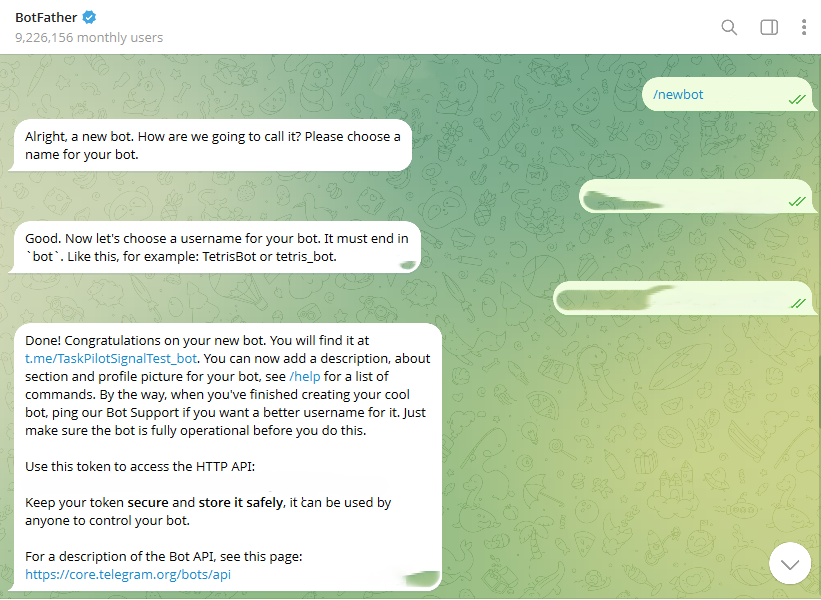
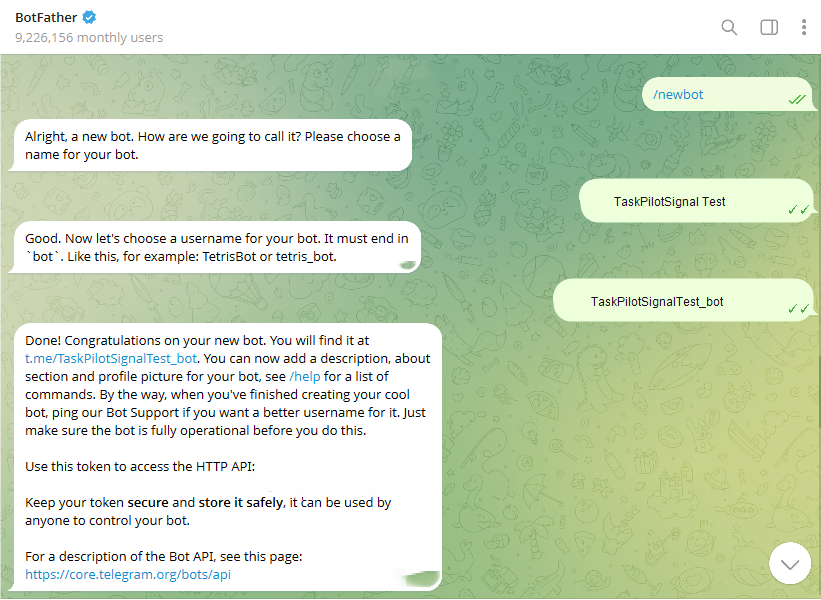
Improve Telegram bot setup guide

Changed region(s): [[0.6699, 0.45, 1.0, 0.54], [0.7004, 0.3, 1.0, 0.39]]

diff --git a/index.html b/index.html
@@ -304,31 +304,32 @@
             <h3>3. Get a Telegram Bot Token</h3>
             <div class="guide-shot-row">
               <figure class="guide-shot-tile">
-                <a class="guide-shot" href="assets/guide/telegram-bot-token.png">
-                  <img src="assets/guide/telegram-bot-token.png" alt="Telegram bot token card with a verified demo bot">
-                </a>
-                <figcaption>Add the token after sending /start to the bot once.</figcaption>
-              </figure>
-              <figure class="guide-shot-tile">
                 <a class="guide-shot" href="assets/guide/telegram-bot-create-1.png">
-                  <img src="assets/guide/telegram-bot-create-1.png" alt="Telegram bot auto-configuration chat asking for missing setup details">
+                  <img src="assets/guide/telegram-bot-create-1.png" alt="BotFather chat showing /newbot, a display name, and a username ending in bot">
                 </a>
-                <figcaption>The bot asks only for the setup details it still needs.</figcaption>
+                <figcaption>Steps 2-3: send /newbot, then enter the bot name and username.</figcaption>
               </figure>
               <figure class="guide-shot-tile">
                 <a class="guide-shot" href="assets/guide/telegram-bot-create-2.png">
-                  <img src="assets/guide/telegram-bot-create-2.png" alt="Telegram bot auto-configuration chat confirming AI model and schedule">
+                  <img src="assets/guide/telegram-bot-create-2.png" alt="Telegram chat with the new bot after sending start">
                 </a>
-                <figcaption>You can answer naturally and confirm the AI model in chat.</figcaption>
+                <figcaption>Step 4: open your new bot and send /start once.</figcaption>
+              </figure>
+              <figure class="guide-shot-tile">
+                <a class="guide-shot" href="assets/guide/telegram-bot-token.png">
+                  <img src="assets/guide/telegram-bot-token.png" alt="Telegram bot token card with a verified demo bot">
+                </a>
+                <figcaption>Step 5: add and verify the token in Settings.</figcaption>
               </figure>
             </div>
             <p class="guide-hint">Click any screenshot to open it full size.</p>
             <ol>
-              <li>Open Telegram and search for <strong>@BotFather</strong>. Use the official BotFather account.</li>
-              <li>Send <code>/newbot</code>, enter a display name, then enter a username that ends with <code>bot</code>.</li>
+              <li>Open <strong>Settings > Telegram Bot Tokens</strong> in TaskPilotSignal when you are ready to add the token. Token creation is done in Telegram, then saved here.</li>
+              <li>Open Telegram and search for <strong>@BotFather</strong>. Use the official BotFather account, then send <code>/newbot</code>.</li>
+              <li>Enter a display name such as <code>TaskPilotSignal Test</code>, then enter a username that ends with <code>bot</code>, such as <code>TaskPilotSignalTest_bot</code>.</li>
               <li>Copy the token BotFather gives you. Treat it like a password and do not share it.</li>
               <li>Open a 1:1 chat with your new bot and send <code>/start</code> or any message once.</li>
-              <li>In TaskPilotSignal, open <strong>Settings > Telegram Bot Tokens</strong>, add the token, and click verify. Chat ID is detected automatically from your latest bot message.</li>
+              <li>Return to <strong>Settings > Telegram Bot Tokens</strong>, add the token, and click verify. Chat ID is detected automatically from your latest bot message.</li>
               <li>If verification says no chat was found, send one more message to the bot in Telegram and verify again.</li>
             </ol>
           </div>
@@ -411,31 +412,32 @@
             <h3>3. 텔레그램 봇 토큰 얻기</h3>
             <div class="guide-shot-row">
               <figure class="guide-shot-tile">
-                <a class="guide-shot" href="assets/guide/telegram-bot-token.png">
-                  <img src="assets/guide/telegram-bot-token.png" alt="검증된 데모 봇이 표시된 텔레그램 봇 토큰 카드">
-                </a>
-                <figcaption>봇에 /start를 한 번 보낸 뒤 토큰을 추가합니다.</figcaption>
-              </figure>
-              <figure class="guide-shot-tile">
                 <a class="guide-shot" href="assets/guide/telegram-bot-create-1.png">
-                  <img src="assets/guide/telegram-bot-create-1.png" alt="텔레그램 봇 자동 설정 대화에서 필요한 정보를 묻는 화면">
+                  <img src="assets/guide/telegram-bot-create-1.png" alt="BotFather 대화에서 /newbot, 봇 표시 이름, bot으로 끝나는 사용자 이름을 입력한 화면">
                 </a>
-                <figcaption>봇은 아직 부족한 설정만 이어서 물어봅니다.</figcaption>
+                <figcaption>2-3단계: /newbot을 보내고 봇 이름과 사용자 이름을 입력합니다.</figcaption>
               </figure>
               <figure class="guide-shot-tile">
                 <a class="guide-shot" href="assets/guide/telegram-bot-create-2.png">
-                  <img src="assets/guide/telegram-bot-create-2.png" alt="텔레그램 봇 자동 설정 대화에서 AI 모델과 실행 시간을 정리한 화면">
+                  <img src="assets/guide/telegram-bot-create-2.png" alt="새 텔레그램 봇에게 /start를 보낸 화면">
                 </a>
-                <figcaption>자연스럽게 답하고 채팅 안에서 AI 모델을 확정할 수 있습니다.</figcaption>
+                <figcaption>4단계: 새 봇과 대화를 열고 /start를 한 번 보냅니다.</figcaption>
+              </figure>
+              <figure class="guide-shot-tile">
+                <a class="guide-shot" href="assets/guide/telegram-bot-token.png">
+                  <img src="assets/guide/telegram-bot-token.png" alt="검증된 데모 봇이 표시된 텔레그램 봇 토큰 카드">
+                </a>
+                <figcaption>5단계: 설정에서 토큰을 추가하고 검증합니다.</figcaption>
               </figure>
             </div>
             <p class="guide-hint">스크린샷을 누르면 원본 크기로 볼 수 있습니다.</p>
             <ol>
-              <li>Telegram에서 <strong>@BotFather</strong>를 검색합니다. 공식 BotFather 계정을 사용하세요.</li>
-              <li><code>/newbot</code>을 보내고, 표시 이름을 입력한 뒤 <code>bot</code>으로 끝나는 사용자 이름을 입력합니다.</li>
+              <li>TaskPilotSignal에서 <strong>설정 > 텔레그램 봇 토큰</strong>을 열어둡니다. 토큰은 Telegram에서 만든 뒤 이 화면에 저장합니다.</li>
+              <li>Telegram에서 <strong>@BotFather</strong>를 검색합니다. 공식 BotFather 계정을 사용하고 <code>/newbot</code>을 보냅니다.</li>
+              <li>표시 이름은 <code>TaskPilotSignal Test</code>처럼 입력하고, 사용자 이름은 <code>TaskPilotSignalTest_bot</code>처럼 <code>bot</code>으로 끝나게 입력합니다.</li>
               <li>BotFather가 알려주는 토큰을 복사합니다. 토큰은 비밀번호처럼 다루고 다른 사람에게 공유하지 마세요.</li>
               <li>새 봇과 1:1 채팅을 열고 <code>/start</code> 또는 아무 메시지를 한 번 보냅니다.</li>
-              <li>TaskPilotSignal의 <strong>설정 > 텔레그램 봇 토큰</strong>에서 토큰을 추가하고 검증을 누릅니다. 채팅 ID는 최근 봇 메시지에서 자동 감지됩니다.</li>
+              <li>다시 <strong>설정 > 텔레그램 봇 토큰</strong>으로 돌아와 토큰을 추가하고 검증을 누릅니다. 채팅 ID는 최근 봇 메시지에서 자동 감지됩니다.</li>
               <li>검증 시 채팅을 찾지 못했다고 나오면 Telegram에서 봇에게 메시지를 한 번 더 보내고 다시 검증하세요.</li>
             </ol>
           </div>
